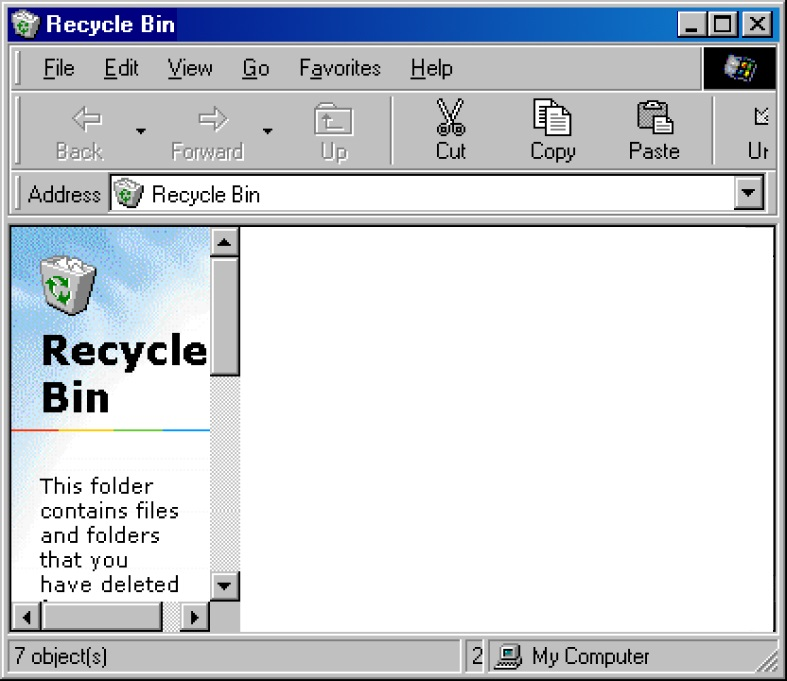
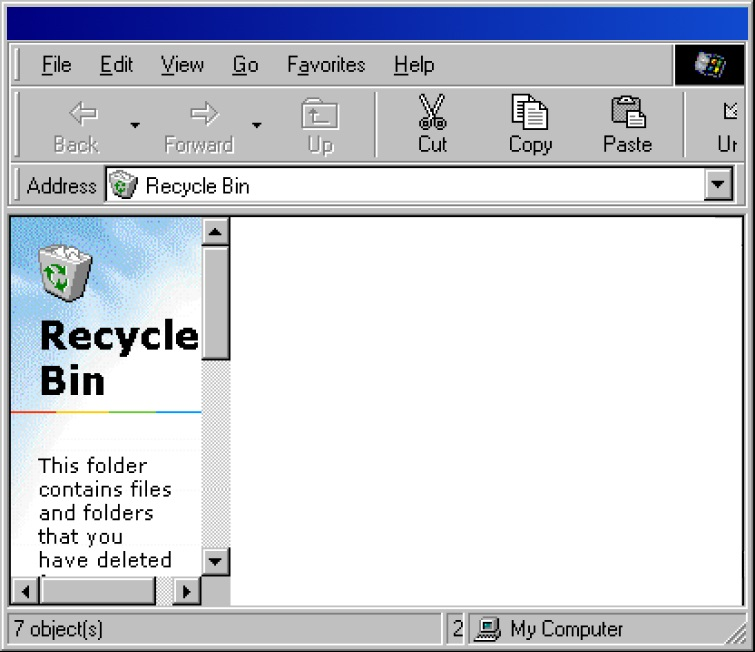
recycle bin handle fix

diff --git a/src/assets/style/RecycleBin.style.tsx b/src/assets/style/RecycleBin.style.tsx
@@ -1,7 +1,7 @@
 import styled from "styled-components";
 
 import { FilesProps } from "../../utils/context";
-import recycleHandle from "../images/handles/recycleHandle.jpg";
+import recycleHandle from "../images/handles/handle.jpg";
 import recycleBin from "../images/modals/recycleBin.jpg";
 import { flexMixin } from "./GlobalStyles";
 
@@ -10,7 +10,7 @@ export const RecycleBinFile = styled.section<FilesProps>`
 
   position: absolute;
   height: 652px;
-  width: 755.5px;
+  width: 755px;
 
   visibility: ${({ isLoading }) => (isLoading ? "hidden" : "visible")};
 
@@ -19,12 +19,41 @@ export const RecycleBinFile = styled.section<FilesProps>`
 `;
 
 export const RecycleBinHandle = styled.article<FilesProps>`
-  ${flexMixin({ justify: "flex-end", align: "center" })};
-  background: url(${recycleHandle}) center/contain no-repeat;
-  height: 43px;
-  width: 100%;
-  max-width: 753px;
-  margin: 0 auto;
-  padding: 0 15px;
+  background: url(${recycleHandle}) center/cover no-repeat;
+  height: 33px;
+  width: 741px;
+  margin: 0.45rem auto;
   cursor: grab;
+
+  div {
+    ${flexMixin({ justify: "flex-start", align: "center" })};
+    height: 30px;
+    width: 160px;
+
+    user-drag: none;
+    -webkit-user-drag: none;
+    user-select: none;
+    -moz-user-select: none;
+    -webkit-user-select: none;
+    -ms-user-select: none;
+    cursor: auto;
+
+    img {
+      height: 26px;
+      width: 26px;
+      margin: 0 0.5rem;
+
+      user-drag: none;
+      -webkit-user-drag: none;
+      user-select: none;
+      -moz-user-select: none;
+      -webkit-user-select: none;
+      -ms-user-select: none;
+    }
+
+    p {
+      font-size: 1.5rem;
+      color: #fff;
+    }
+  }
 `;

diff --git a/src/components/windows/RecycleBin.tsx b/src/components/windows/RecycleBin.tsx
@@ -2,6 +2,7 @@ import React, { useRef } from "react";
 import Draggable from "react-draggable";
 
 import book from "../../assets/images/icons/book.png";
+import handleImg from "../../assets/images/icons/recycle.png";
 import { Book } from "../../assets/style/Book.style";
 import { Selection } from "../../assets/style/Icons.style";
 import {
@@ -77,8 +78,12 @@ const RecycleBin = () => {
           isVisible={isVisible.recycle}
           data-no-select="true"
         >
+          <ControlBtns iconName="recycle" />
           <RecycleBinHandle className="handle" isVisible={isVisible.recycle}>
-            <ControlBtns iconName="recycle" />
+            <div>
+              <img src={handleImg} alt="handleImg" />
+              <p>Recycle Bin</p>
+            </div>
           </RecycleBinHandle>
           <Book
             iconName={book}

diff --git a/src/assets/style/Files.style.tsx b/src/assets/style/Files.style.tsx
@@ -22,6 +22,18 @@ export const ControlBtnsContainer = styled.div<BtnContainer>`
       margin: 0 0.3rem;
     }
   }
+
+  ${({ iconName }) =>
+    iconName === "recycle" &&
+    css`
+      height: 48px;
+      width: 115px;
+
+      button {
+        height: 19.5px;
+        width: 22.5px;
+      }
+    `}
 `;
 
 const controlButtonStyles = css`
